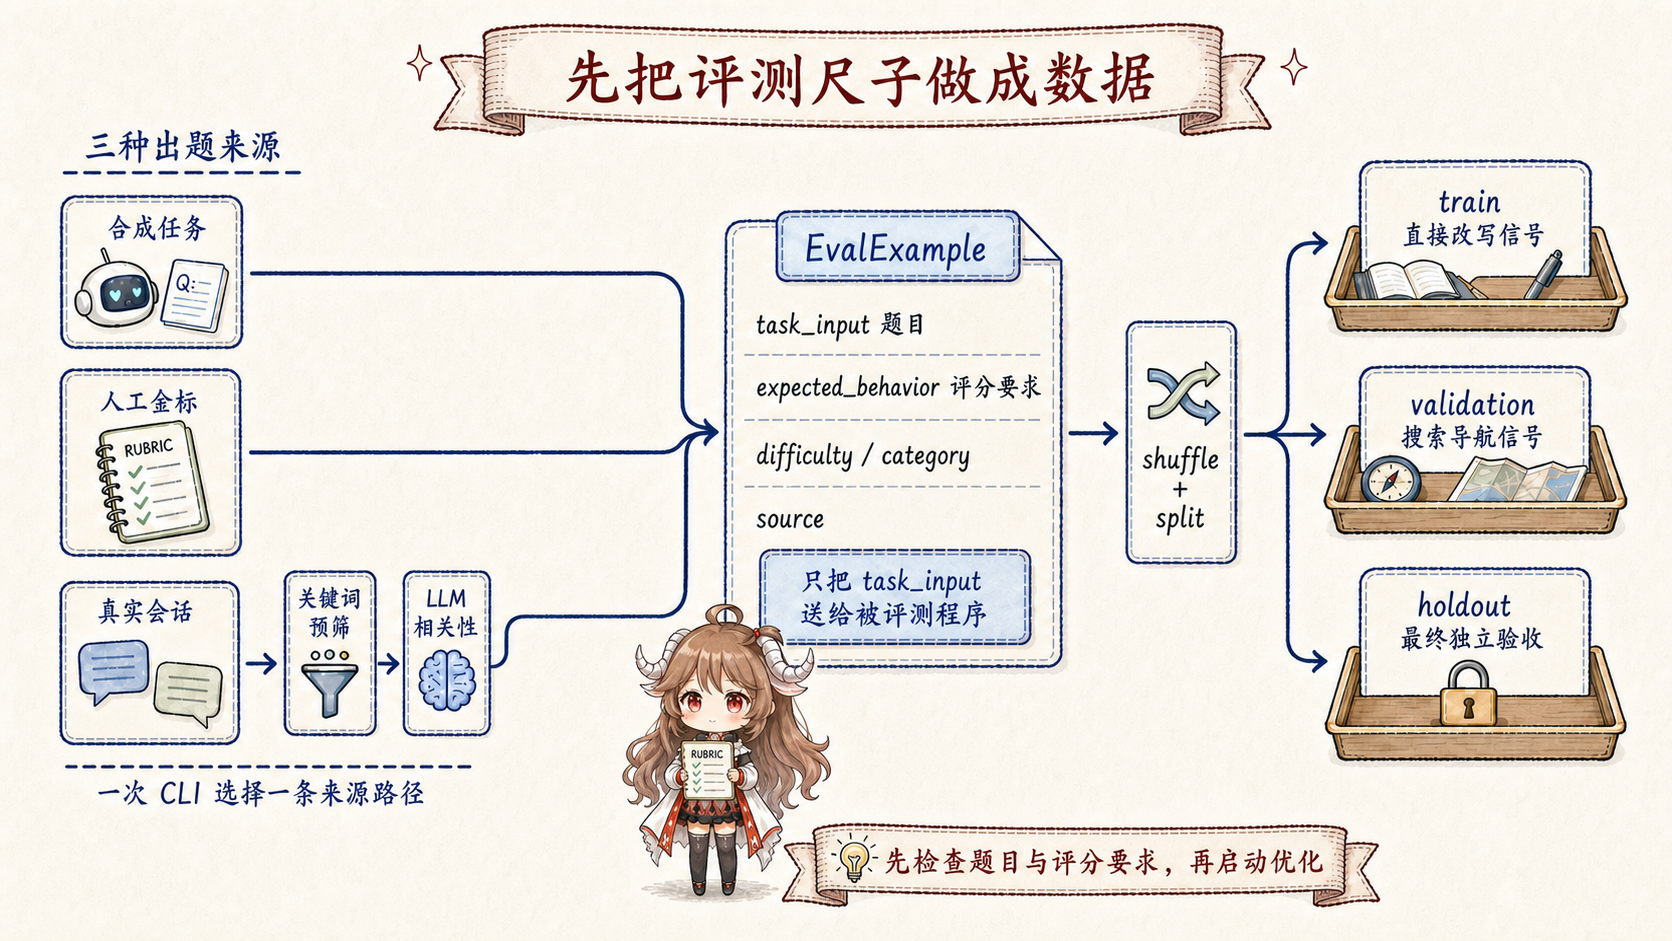
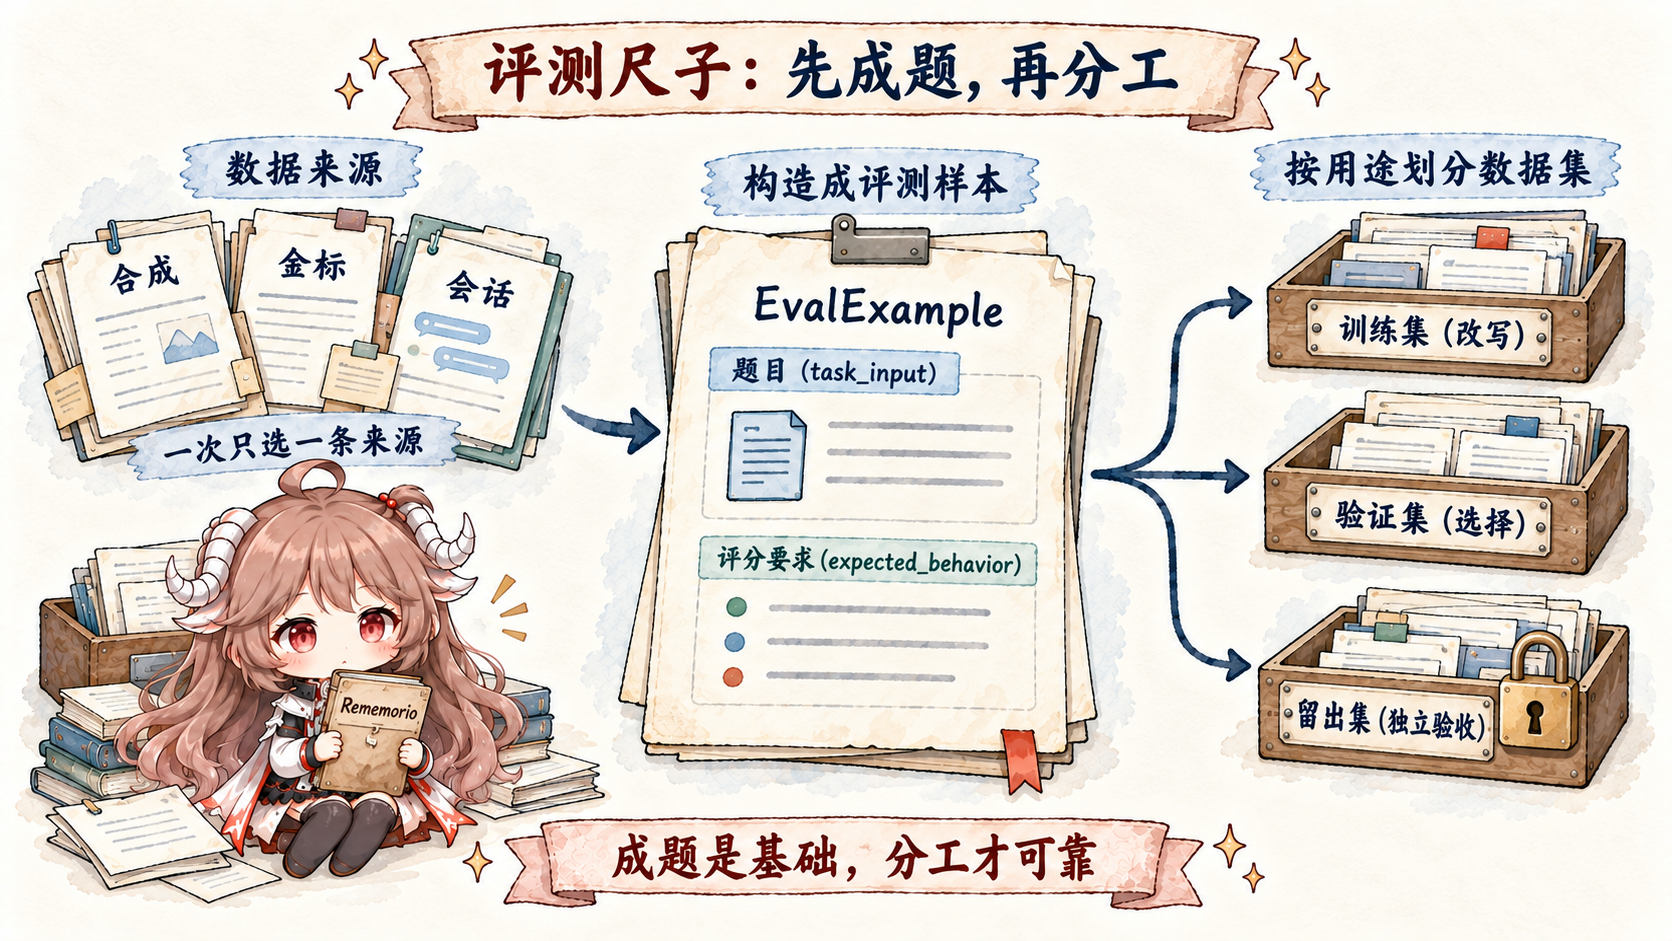
Redraw Hermes evaluation data in Memory visual style

diff --git a/hermes-agent/en/evaluation-dataset/index.html b/hermes-agent/en/evaluation-dataset/index.html
@@ -75,7 +75,7 @@
             <figure class="hero-image">
               <img
                 src="assets/eval-ruler-data.png"
-                alt="Synthetic tasks, a human golden set, or filtered real sessions become EvalExample records and split into train, validation, and holdout"
+                alt="One run selects synthetic, golden, or session data, builds EvalExample records with tasks and rubrics, and splits them into train, validation, and independent holdout sets"
               />
             </figure>
           </section>
@@ -182,10 +182,10 @@ expected_behavior
             <figure>
               <img
                 src="assets/eval-ruler-data.png"
-                alt="Synthetic tasks, a human golden set, or real sessions that pass keyword and LLM relevance filtering become a normalized EvalExample and are then split into train, validation, and holdout"
+                alt="One run selects synthetic, golden, or session data, builds EvalExample records with tasks and rubrics, and splits them into train, validation, and independent holdout sets"
                 loading="lazy"
               />
-              <figcaption>One CLI run chooses one source path; every path must produce the same <code>EvalExample</code> shape.</figcaption>
+              <figcaption>One CLI run chooses one source path; each path produces <code>EvalExample</code> records with tasks and rubrics, then splits them by rewriting, selection, and independent evaluation roles.</figcaption>
             </figure>
 
             <h3>3.1 Synthetic tasks solve cold start</h3>

diff --git a/hermes-agent/zh/evaluation-dataset/index.html b/hermes-agent/zh/evaluation-dataset/index.html
@@ -75,7 +75,7 @@
             <figure class="hero-image">
               <img
                 src="assets/eval-ruler-data.png"
-                alt="合成任务、人工金标或经过相关性筛选的真实会话归一成 EvalExample，再切为 train、validation 和 holdout"
+                alt="一次选择合成、金标或会话来源，将题目与评分要求构成 EvalExample，再分为训练集、验证集和独立留出集"
               />
             </figure>
           </section>
@@ -182,10 +182,10 @@ expected_behavior
             <figure>
               <img
                 src="assets/eval-ruler-data.png"
-                alt="合成任务、人工金标或经过两阶段相关性筛选的真实会话分别归一成 EvalExample，再随机切为 train、validation 和 holdout"
+                alt="一次选择合成、金标或会话来源，将题目与评分要求构成 EvalExample，再分为训练集、验证集和独立留出集"
                 loading="lazy"
               />
-              <figcaption>一次 CLI 运行只选择一条来源路径；三条路径最终都必须交出同一种 <code>EvalExample</code>。</figcaption>
+              <figcaption>一次 CLI 运行只选择一条来源路径；每条路径都产出包含题目与评分要求的 <code>EvalExample</code>，再按改写、选择与独立验收划分用途。</figcaption>
             </figure>
 
             <h3>3.1 合成任务：先让系统有题可做</h3>
